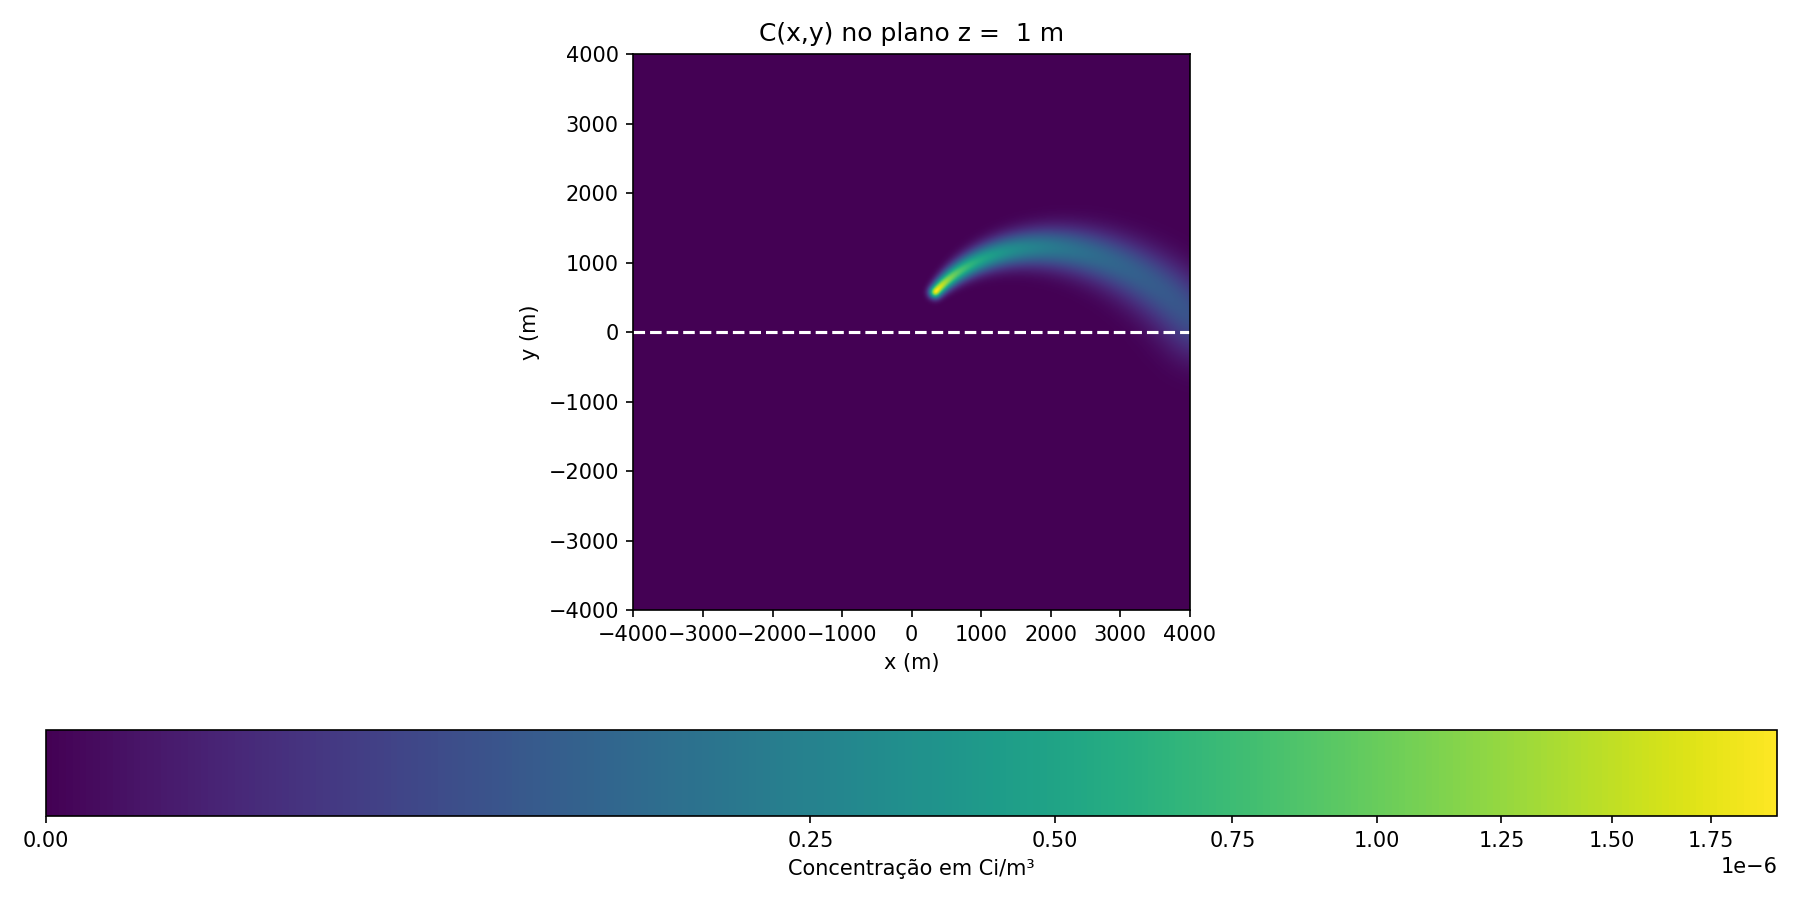
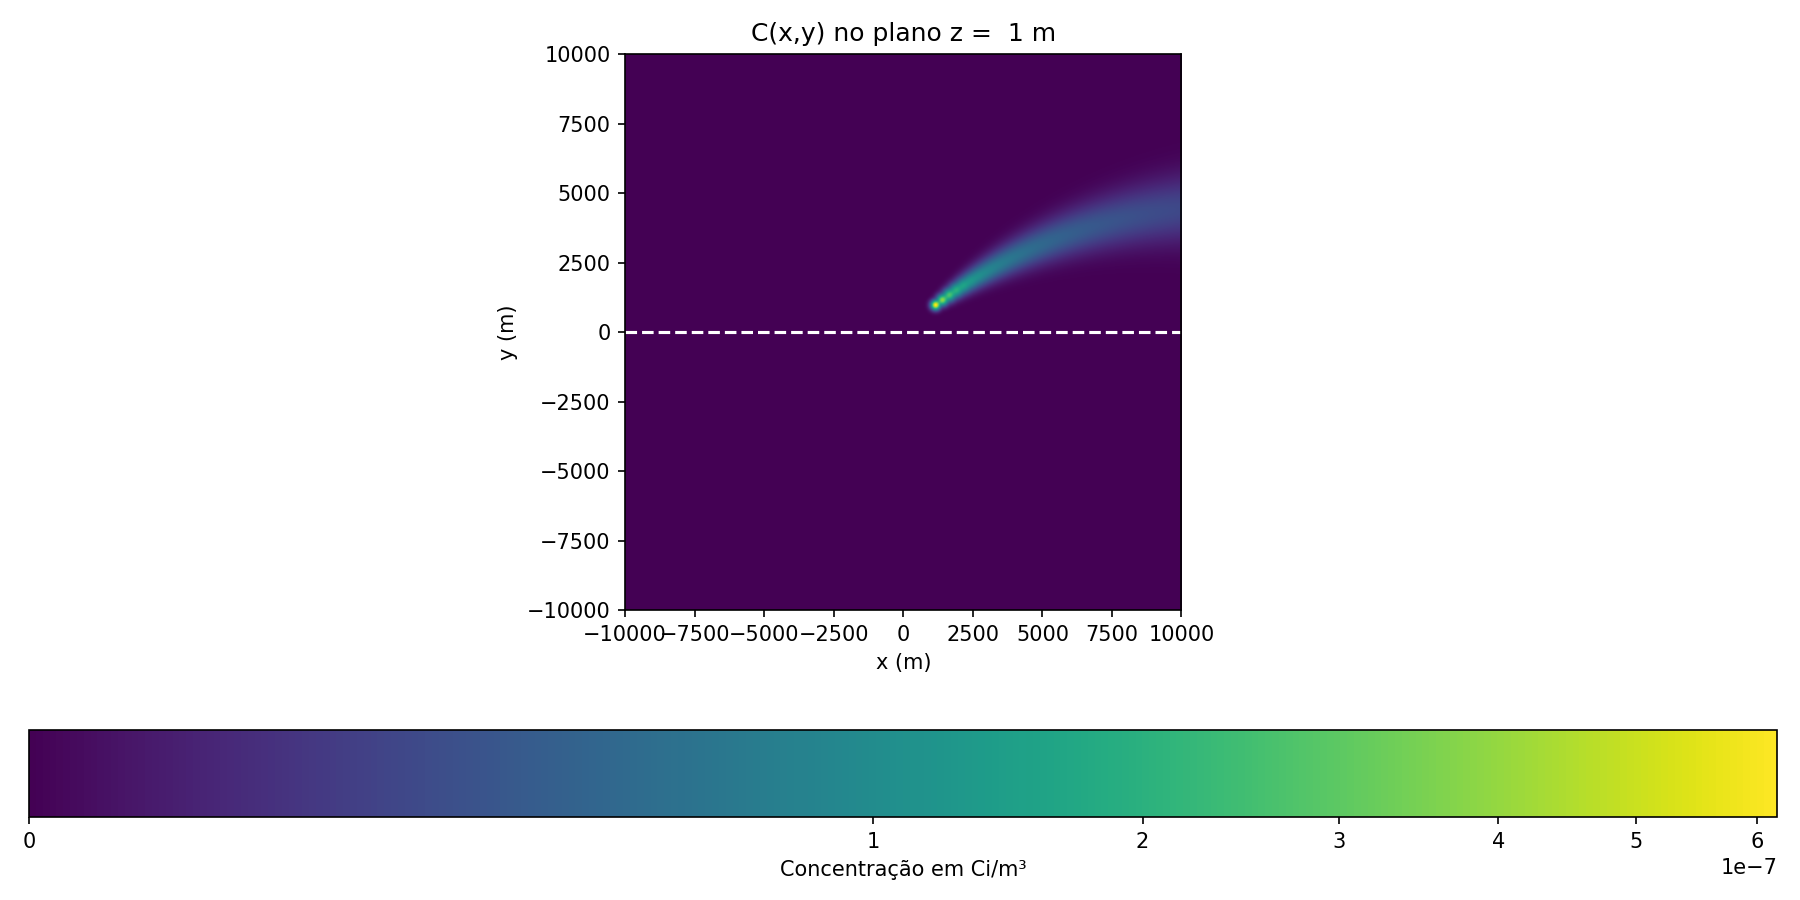
alteracoes

diff --git a/main.py b/main.py
@@ -1,4 +1,6 @@
 from pathlib import Path
+from datetime import datetime
+import time
 
 import numpy as np
 import plotting
@@ -10,6 +12,12 @@ from puff import Puff
 
 if __name__ == "__main__":
     
+
+    inicio_clock = datetime.now()
+    inicio = time.perf_counter()
+
+    print(f"Início: {inicio_clock.strftime('%Y-%m-%d %H:%M:%S')}")
+
     config = Config()
     model = GaussianPuffModel(config)
     scenario = TemporalScenario(config)
@@ -24,7 +32,7 @@ if __name__ == "__main__":
 
     lista_puffs = []
 
-    for evento in range(config.total_eventos - 10):
+    for evento in range(config.total_eventos - 4):
 
         idade = (config.total_eventos - evento) * config.intervalo_t_eventos
 
@@ -35,7 +43,7 @@ if __name__ == "__main__":
 
         atividade_emitida = config.emissao_teste_fixo
         velocidade_vento = config.vento_teste_fixo
-        angulo_vento_variante_teste = config.angulo_teste_fixo + evento
+        angulo_vento_variante_teste = config.angulo_teste_fixo + 0.5*evento
         classe_estabilidade = config.classe_teste_fixo
 
         puff = Puff(
@@ -48,6 +56,12 @@ if __name__ == "__main__":
         )
 
         lista_puffs.append(puff)
+
+    fim_clock_1 = datetime.now()
+    fim_1 = time.perf_counter()
+
+    print(f"Fim 1 : {fim_clock_1.strftime('%Y-%m-%d %H:%M:%S')}")
+    print(f"Tempo de processamento 1 : {fim_1 - inicio:.2f} segundos")   
 
     for puff in lista_puffs:
 
@@ -84,38 +98,44 @@ if __name__ == "__main__":
         #     classe_estabilidade=classe_estabilidade
         # )
 
-        print(f"meshgrid modelado com sucesso para o puff {id_puff}\n")
+        # print(f"meshgrid modelado com sucesso para o puff {id_puff}\n")
 
-        if config.plotar_heatmap_xy:
-            plotting.plotar_heatmap_xy(
-                concentracoes_puff_xyz,
-                eixo_x,
-                eixo_y,
-                eixo_z,
-                id_puff,
-                exibir_maximo=False,
-                campo_acumulado=False
-            )
+        # if config.plotar_heatmap_xy:
+        #     plotting.plotar_heatmap_xy(
+        #         concentracoes_puff_xyz,
+        #         eixo_x,
+        #         eixo_y,
+        #         eixo_z,
+        #         id_puff,
+        #         exibir_maximo=False,
+        #         campo_acumulado=False
+        #     )
 
-        if config.plotar_heatmap_yz:
-            plotting.plotar_heatmap_yz(
-                concentracoes_puff_xyz,
-                eixo_y,
-                eixo_z,
-                id_puff,
-                exibir_maximo=False,
-                campo_acumulado=False
-            )
+        # if config.plotar_heatmap_yz:
+        #     plotting.plotar_heatmap_yz(
+        #         concentracoes_puff_xyz,
+        #         eixo_y,
+        #         eixo_z,
+        #         id_puff,
+        #         exibir_maximo=False,
+        #         campo_acumulado=False
+        #     )
 
-        if config.plotar_heatmap_xz:
-            plotting.plotar_heatmap_xz(
-                concentracoes_puff_xyz,
-                eixo_x,
-                eixo_z,
-                id_puff,
-                exibir_maximo=False,
-                campo_acumulado=False
-            )
+        # if config.plotar_heatmap_xz:
+        #     plotting.plotar_heatmap_xz(
+        #         concentracoes_puff_xyz,
+        #         eixo_x,
+        #         eixo_z,
+        #         id_puff,
+        #         exibir_maximo=False,
+        #         campo_acumulado=False
+        #     )
+
+    fim_clock_2 = datetime.now()
+    fim_2 = time.perf_counter()
+
+    print(f"Fim 2 : {fim_clock_2.strftime('%Y-%m-%d %H:%M:%S')}")
+    print(f"Tempo de processamento 2 : {fim_2 - fim_1:.2f} segundos")   
 
     if concentracoes_xyz is not None:
         print("Campo resultante acumulado com sucesso\n")

diff --git a/config.py b/config.py
@@ -17,21 +17,21 @@ class Config:
 
     seed: int = 42
 
-    total_eventos: int = 70         #[eventos]
-    intervalo_t_eventos: int = 60   #[segundos, para cada evento]
+    total_eventos: int = 144        #[eventos]
+    intervalo_t_eventos: int = 600  #[segundos, para cada evento]
 
-    vento_teste_fixo: int = 1       #modulo da velocidade do vento, em m/min
-    angulo_teste_fixo: int = 0      #angulo do vento em graus (0 a 359)
-    emissao_teste_fixo: int = 1         
+    vento_teste_fixo: int = 0.5     #modulo da velocidade do vento, em m/min
+    angulo_teste_fixo: int = -30    #angulo do vento em graus (-360 a 360)
+    emissao_teste_fixo: int = 4         
     classe_teste_fixo: str = "C"
 
-    dimensao_eixo_x: int = 4000      # [m] inteiro >= 1 e multiplo de passo_x
-    dimensao_eixo_y: int = 4000      # [m] inteiro >= 0 e multiplo de passo_y
+    dimensao_eixo_x: int = 10000     # [m] inteiro >= 1 e multiplo de passo_x
+    dimensao_eixo_y: int = 10000     # [m] inteiro >= 0 e multiplo de passo_y
     dimensao_eixo_z: int = 1         # [m] inteiro >= 0 e multiplo de passo_z
-    passo_x: int = 10                # [m] inteiro >= 1
-    passo_y: int = 10                # [m] inteiro >= 1
+    passo_x: int = 20                # [m] inteiro >= 1
+    passo_y: int = 20                # [m] inteiro >= 1
     passo_z: int = 1                 # [m] inteiro >= 1
-    limite_pontos: int = 1000000     # limite de pontos por evento discreto (sugestão: 10^6)
+    limite_pontos: int = 1002001     # limite de pontos por evento discreto (sugestão: 10^6)
 
     plotar_heatmap_xy: bool = True
     z_corte: int = 1                # altura z do corte no plano xy
